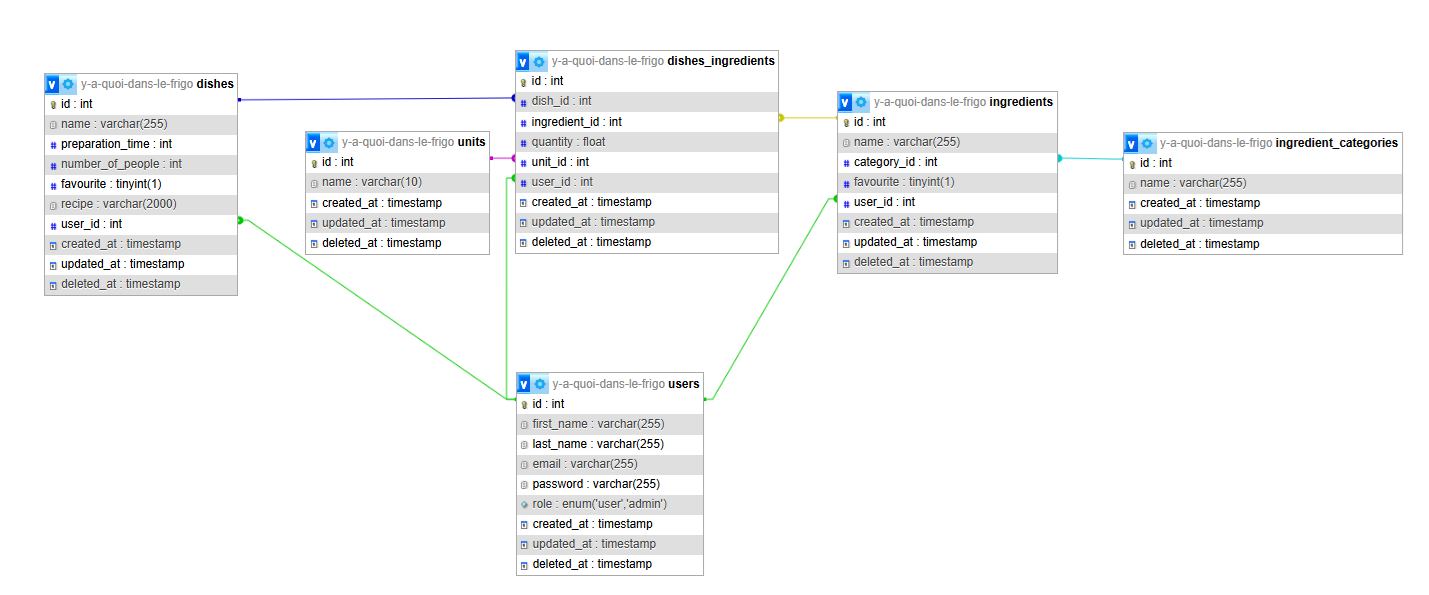
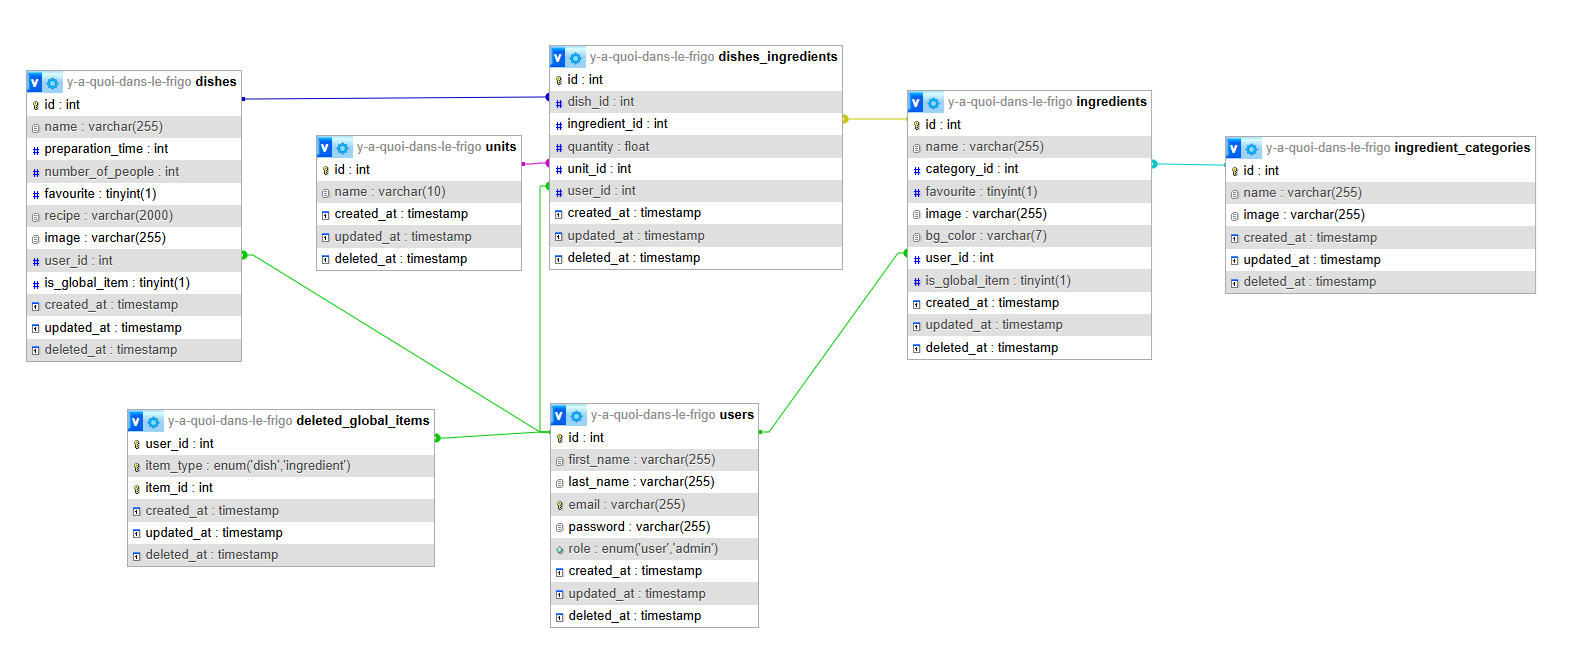
global_items database stuff

diff --git a/packages/backend/src/database/models/deleted_global_items.ts b/packages/backend/src/database/models/deleted_global_items.ts
@@ -1,0 +1,26 @@
+import { Entity, ManyToOne, PrimaryKey, Property } from '@mikro-orm/core';
+import { User } from './user.entity';
+import { GlobalItemType } from '../../utils/enums/global_item.type';
+
+@Entity({ tableName: 'deleted_global_items' })
+export class Dish {
+
+  @PrimaryKey()
+  @ManyToOne(() => User)
+  user!: User;
+
+  @PrimaryKey()
+  itemType!: GlobalItemType
+
+  @PrimaryKey()
+  itemId!: number
+
+  @Property({ type: 'date' })
+  createdAt: Date = new Date();
+
+  @Property({ type: 'date' })
+  updatedAt: Date = new Date();
+
+  @Property({ type: 'date', nullable: true })
+  deletedAt?: Date;
+}

diff --git a/packages/backend/src/database/models/ingredient.entity.ts b/packages/backend/src/database/models/ingredient.entity.ts
@@ -25,6 +25,9 @@ export class Ingredient {
   @ManyToOne(() => User)
   user!: User;
 
+  @Property({ default: false })
+  isGlobalItem: boolean;
+
   @Property({ type: 'date' })
   createdAt: Date = new Date();
 

diff --git a/packages/backend/src/database/models/dish.entity.ts b/packages/backend/src/database/models/dish.entity.ts
@@ -27,6 +27,9 @@ export class Dish {
   @ManyToOne(() => User)
   user!: User;
 
+  @Property({ default: false })
+  isGlobalItem: boolean;
+
   @Property({ type: 'date' })
   createdAt: Date = new Date();
 

diff --git a/packages/backend/src/utils/enums/global_item.type.ts b/packages/backend/src/utils/enums/global_item.type.ts
@@ -1,0 +1,4 @@
+export enum GlobalItemType {
+  DISH = "dish",
+  INGREDIENT = "ingredient",
+}
